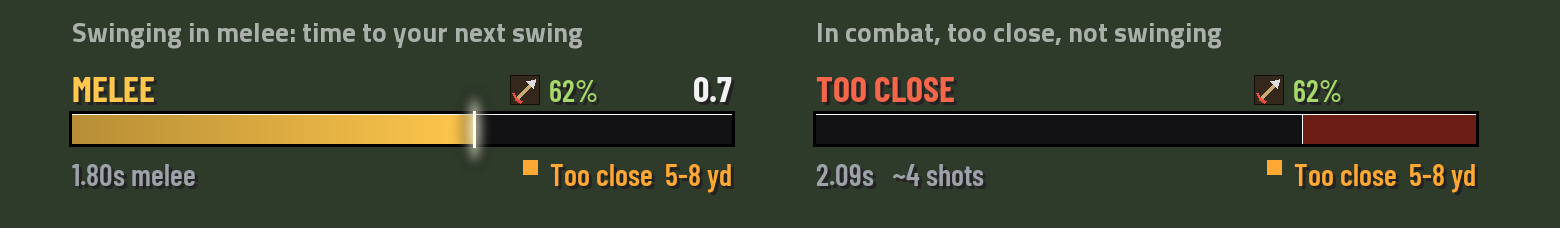
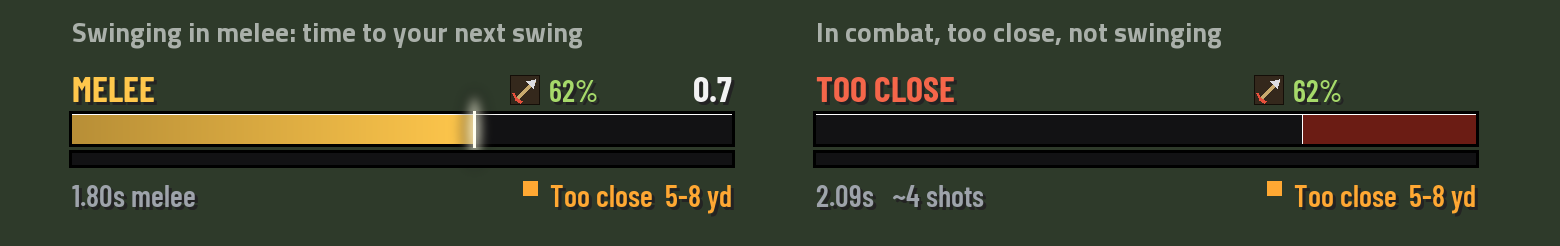
0.10.0: stand-still bar, measured on your own shots
- A slim second bar under the main one fills over exactly the time you must
  stand still: from the moment you must stand (or the moment you stop, if you
  stop late) to the moment the shot goes. Moving empties it (STOP). The
  countdown runs in hundredths while you stand. Option "Stand-still bar".
- The stand-still time is measured, not guessed: from your stop to the shot
  when you stop after the swing ends, and the delay after the swing when you
  stood still all along. Medians of the last nine, saved in the settings and
  kept by Reset all. Until there are three, the half second plus ping is used.
  The main bar's red window and cycle follow the same numbers.
- /hst timing shows what was measured.
- Previews redrawn with the new bar and checkbox.

diff --git a/tools/render_previews.py b/tools/render_previews.py
@@ -33,6 +33,30 @@ FACTION = {"A": ("Alliance", (0.27, 0.55, 1)), "H": ("Horde", (0.92, 0.22, 0.2))
 BG = (24, 28, 24)
 WIDTH, THICK, FONT_SIZE, SMALL, GAP = 220, 10, 12, 10, 4
 WINDOW = 0.55  # 0.5 s stand-still + 50 ms ping
+STAND_H = max(3, int(THICK * 0.4 + 0.5))  # the stand-still bar under the main one (Bar.lua)
+STAND_EXTRA = STAND_H + 3
+
+
+def stand_bar(img, x, y, length, value, vertical=False):
+    """The slim stand-still bar: track, 1 px border, fill in the stand colour."""
+    d = ImageDraw.Draw(img)
+    if vertical:
+        rect(d, x - 1, y - 1, x + STAND_H + 1, y + length + 1, (0, 0, 0, 255))
+        rect(d, x, y, x + STAND_H, y + length, rgb(TRACK))
+        if value > 0:
+            rect(d, x, y + length * (1 - value), x + STAND_H, y + length, rgb(STAND))
+    else:
+        rect(d, x - 1, y - 1, x + length + 1, y + STAND_H + 1, (0, 0, 0, 255))
+        rect(d, x, y, x + length, y + STAND_H, rgb(TRACK))
+        if value > 0:
+            rect(d, x, y, x + length * value, y + STAND_H, rgb(STAND))
+
+
+def stand_value(value, speed, window):
+    """How full the stand-still bar is at this point of the swing (standing still)."""
+    if window <= 0:
+        return 0
+    return max(0.0, min(1.0, (value * speed - (speed - window)) / window))
 
 
 def rgb(c, a=255):
@@ -155,7 +179,7 @@ def range_text(d, right_x, y, state, distance, align="right"):
     text(d, x0, y, s, SMALL, rgb(c), anchor="ls")
 
 
-def standard(img, ox, oy, status, scolour, countdown, value, pct, state, distance, info="2.09s   ~4 shots", window=WINDOW, speed=2.09, text_alpha=1.0):
+def standard(img, ox, oy, status, scolour, countdown, value, pct, state, distance, info="2.09s   ~4 shots", window=WINDOW, speed=2.09, text_alpha=1.0, stand=None):
     d = ImageDraw.Draw(img)
     top = max(FONT_SIZE, SMALL) + GAP
     base = oy + top - GAP
@@ -167,7 +191,8 @@ def standard(img, ox, oy, status, scolour, countdown, value, pct, state, distanc
         text(d, ox + WIDTH, base, countdown, FONT_SIZE, rgb(TEXT), anchor="rs", path=FONT_BOLD, alpha=text_alpha)
     ammo(d, ox + WIDTH - count_slot - ammo_w, base, pct)
     bar(img, ox, oy + top, WIDTH, THICK, value, scolour, speed=speed, window=window)
-    below = oy + top + THICK + GAP + SMALL
+    stand_bar(img, ox, oy + top + THICK + 3, WIDTH, stand_value(value, speed, window) if stand is None else stand)
+    below = oy + top + THICK + STAND_EXTRA + GAP + SMALL
     text(d, ox, below, info, SMALL, rgb(MUTED), anchor="ls", alpha=text_alpha)
     range_text(d, ox + WIDTH, below, state, distance)
 
@@ -186,16 +211,16 @@ def caption(img, x, y, s):
 
 
 def render_phases():
-    img = canvas(520, 76)
+    img = canvas(520, 82)
     x, y = 24, 22
     standard(img, x, y, "MOVE", MOVE, "0.9", 0.29, 62, "in", "25-30 yd")
     caption(img, x, 14, "1  Free to move")
     x = 272
-    standard(img, x, y, "STAND STILL", STAND, "0.3", 0.86, 62, "in", "25-30 yd")
+    standard(img, x, y, "STAND STILL", STAND, "0.29", 0.86, 62, "in", "25-30 yd")
     caption(img, x, 14, "2  Stand still, the shot is coming")
     img.save(OUT / "bar-phases.png")
 
-    img = canvas(520, 76)
+    img = canvas(520, 82)
     x = 24
     standard(img, x, y, "TOO CLOSE", STAND, "", 1.0, 18, "close", "5-8 yd", info="2.09s")
     caption(img, x, 14, "Shot held up: inside the dead zone")
@@ -206,36 +231,37 @@ def render_phases():
 
 
 def render_melee():
-    img = canvas(520, 76)
+    img = canvas(520, 82)
     x, y = 24, 22
     standard(img, x, y, "MELEE", MELEE, "0.7", 0.61, 62, "close", "5-8 yd", info="1.80s melee", window=0, speed=1.8)
     caption(img, x, 14, "Swinging in melee: time to your next swing")
     x = 272
-    standard(img, x, y, "TOO CLOSE", STAND, "", 0.0, 62, "close", "5-8 yd", info="2.09s   ~4 shots")
+    standard(img, x, y, "TOO CLOSE", STAND, "", 0.0, 62, "close", "5-8 yd", info="2.09s   ~4 shots", stand=0)
     caption(img, x, 14, "In combat, too close, not swinging")
     img.save(OUT / "bar-melee.png")
 
 
 def render_layouts():
-    img = canvas(560, 260)
+    img = canvas(560, 272)
     d = ImageDraw.Draw(img)
     caption(img, 24, 20, "Horizontal, text above (default)")
     standard(img, 24, 28, "MOVE", MOVE, "0.9", 0.29, 62, "in", "25-30 yd")
 
-    caption(img, 24, 100, "Horizontal, one row")
+    caption(img, 24, 106, "Horizontal, one row")
     status_w = math.ceil(FONT_SIZE * 6)
     count_w = math.ceil(FONT_SIZE * 2.2)
     row_h = max(THICK, FONT_SIZE + 2)
-    oy = 108
+    oy = 114
     left = 24 + status_w + 6
     by = oy + (row_h - THICK) / 2
     text(d, left - 6, by + THICK / 2, "STAND STILL", FONT_SIZE, rgb(STAND), anchor="rm", path=FONT_BOLD)
     bar(img, left, by, WIDTH, THICK, 0.86, STAND)
-    text(d, left + WIDTH + 6, by + THICK / 2, "0.3", FONT_SIZE, rgb(TEXT), anchor="lm", path=FONT_BOLD)
+    text(d, left + WIDTH + 6, by + THICK / 2, "0.29", FONT_SIZE, rgb(TEXT), anchor="lm", path=FONT_BOLD)
+    stand_bar(img, left, by + THICK + 3, WIDTH, stand_value(0.86, 2.09, WINDOW))
     ax = left + WIDTH + 6 + count_w + 6
     arrow_icon(d, ax, by + THICK / 2 - SMALL / 2, SMALL)
     text(d, ax + SMALL + 3, by + THICK / 2, "62%", SMALL, hexrgb("a6d96a"), anchor="lm")
-    below = oy + row_h + GAP + SMALL
+    below = oy + row_h + STAND_EXTRA + GAP + SMALL
     text(d, left, below, "2.09s   ~4 shots", SMALL, rgb(MUTED), anchor="ls")
     range_text(d, left + WIDTH, below, "in", "25-30 yd")
 
@@ -243,7 +269,8 @@ def render_layouts():
     vx, vy = 420, 28
     length = 210
     bar(img, vx, vy, length, THICK, 0.45, MOVE, vertical=True)
-    tx = vx + THICK + 6
+    stand_bar(img, vx + THICK + 3, vy, length, 0, vertical=True)
+    tx = vx + THICK + 6 + STAND_EXTRA
     text(d, tx, vy + FONT_SIZE, "MOVE", FONT_SIZE, rgb(MOVE), anchor="ls", path=FONT_BOLD)
     text(d, tx, vy + 2 * FONT_SIZE + 3, "0.6", FONT_SIZE, rgb(TEXT), anchor="ls", path=FONT_BOLD)
     ammo(d, tx, vy + 2 * FONT_SIZE + 6 + SMALL, 62)
@@ -402,7 +429,7 @@ def render_settings():
     checkbox(RIGHT, y, "Weapon speed"); checkbox(RIGHT + COL / 2, y, "Shots to kill"); y -= 24
     checkbox(RIGHT, y, "Spark"); checkbox(RIGHT + COL / 2, y, "Flash on shot"); y -= 24
     checkbox(RIGHT, y, "Border"); checkbox(RIGHT + COL / 2, y, "Gradient fill"); y -= 24
-    checkbox(RIGHT, y, "Melee & too close"); y -= 30
+    checkbox(RIGHT, y, "Melee & too close"); checkbox(RIGHT + COL / 2, y, "Stand-still bar"); y -= 30
     choice(RIGHT, y, "Ammo left", "Percent (62%)"); y -= 52
     heading(RIGHT, y, "Range check"); y -= 22
     checkbox(RIGHT, y, "Enabled"); checkbox(RIGHT + COL / 2, y, "Show text"); y -= 24
@@ -434,7 +461,7 @@ def render_switch():
     ease to their new place, and the texts fade out and come back with the new words."""
     blend_time, speed = 0.2, 2.09
     frames = [0, 0.25, 0.5, 0.75, 1]
-    row = 52
+    row = 52 + STAND_EXTRA
     img = canvas(330, 14 + row * len(frames))
     d = ImageDraw.Draw(img)
     from_value = 0.61
@@ -465,6 +492,9 @@ def render_timing():
         (ROOT / "Timer.lua").read_text(encoding="utf-8"))("HunterShotTimer", ns)
     lua.execute("function fillGaps(ns, list) ns.gaps = {} for i, g in ipairs(list) do ns.gaps[i] = { gap = g, speed = 2.09 } end end")
     lua.globals().fillGaps(ns, lua.table(2.11, 2.08, 2.10, 2.12, 4.30, 2.09, 2.10))
+    lua.execute("function fillCalib(ns) ns.DEFAULTS = { windowExtra = 0, addPing = true } "
+                "ns.calib = { stand = { 0.61, 0.63, 0.62, 0.62 }, early = { 0.02, 0.01, 0.03 } } end")
+    lua.globals().fillCalib(ns)
     lines = list(ns.TimingReport().values())
 
     size, lh = 11, 15

diff --git a/tests/test_timer.py b/tests/test_timer.py
@@ -576,11 +576,20 @@ def main():
     db.width, db.barHeight, db.fontSize, db.smallFontSize = 300, 20, 16, 11
     ns.ApplyLayout()
     check("width and bar height applied", frame.width == 300 and bar.width == 300 and bar.height == 20)
-    check("frame height = text + bar + info row", frame.height == (16 + 4) + 20 + (11 + 4))
+    check("frame height = text + bar + stand-still bar + info row", frame.height == (16 + 4) + 20 + (8 + 3) + (11 + 4))
+    sb = ns.standBar
+    check("stand-still bar: under the bar, full length, slimmer",
+          sb.shown and sb.width == 300 and sb.height == 8 and sb.point[1] == "TOPLEFT" and sb.point[3] == "BOTTOMLEFT"
+          and sb.point[5] == -3)
+    check("info row below the stand-still bar, not on it", ns.ui.info.point[5] == -4 - 11)
     db.showStatus, db.showCountdown, db.showSpeed, db.rangeEnabled = False, False, False, False
     db.showShots, db.ammoDisplay = False, "off"
     ns.ApplyLayout()
-    check("hidden rows take no space", frame.height == 20)
+    check("hidden rows take no space", frame.height == 20 + 11)
+    db.showStandBar = False
+    ns.ApplyLayout()
+    check("stand-still bar off: no room kept for it", frame.height == 20 and not ns.standBar.shown)
+    db.showStandBar = True
     db.showStatus, db.showCountdown, db.showSpeed, db.rangeEnabled = True, True, True, True
     db.showShots, db.ammoDisplay = True, "percent"
     db.opacity = 50
@@ -701,7 +710,7 @@ def main():
     g.tick(37)
     check("demo shows while options open", timer.shown and rng.shown)
     boxes = list(g.checkboxes().values())
-    check("options has the checkboxes", len(boxes) == 19)
+    check("options has the checkboxes", len(boxes) == 20)
     first = boxes[6]  # "Status text" (left column first: ping, then the 5 vendor options)
     first.checked = False
     first.scripts.OnClick(first)
@@ -970,7 +979,7 @@ def main():
     g.tick(7001.7)  # stopped 0.3 s before the swing ends: the shot waits for a full window
     w, still = ns.Window(), ns.move.stillSince
     def shown_left(t):
-        return ns.ui.countdown.text == "%.1f" % (int((t - g.GetTime()) * 10 + 0.5) / 10)
+        return ns.ui.countdown.text == "%.2f" % (int((t - g.GetTime()) * 100 + 0.5) / 100)  # exact while standing
     check("stopped late: the bar sees you stand still", 7001.6 < still <= 7001.7)
     check("stopped late: countdown to the real shot, a full window after you stopped",
           "STAND STILL" in g.shownText() and shown_left(still + w) and still + w > 7002.0)
@@ -992,16 +1001,75 @@ def main():
     g.SlashCmdList.HUNTERSHOTTIMER("timing")
     out = [g.printed[i] for i in range(n + 1, len(g.printed) + 1)]
     check("timing: a gap where you moved is left out", any("you moved, left out" in l for l in out))
+    check("timing: says the stand-still time is not measured yet", any("not measured yet" in l for l in out))
     # Options open: the looping demo ignores your movement.
     g.playerSpeed = 7
     ns.SetUnlocked(True)
     g.tick(7003.7 + 3.0 - (7003.7 % 3.0) + 2.8)
     check("demo ignores movement", "STOP" not in g.shownText())
+    check("demo: the stand-still bar still loops", 0 <= ns.standBar.value <= 1)
     ns.SetUnlocked(False)
     g.playerSpeed = None
     g.fire("STOP_AUTOREPEAT_SPELL")
     g.fire("PLAYER_ENTERING_WORLD")
     g.tick(7010)
+
+    # --- The stand-still bar learns your real stand-still time ------------------------
+    g.fire("PLAYER_ENTERING_WORLD")
+    lua.eval("function(c) c.stand, c.early = {}, {} end")(ns.calib)
+    g.fire("START_AUTOREPEAT_SPELL")
+    g.playerSpeed = 0
+    t0 = 8000.0
+    g.setClock(t0)
+    g.tick(t0 + 0.05)
+    g.fire("PLAYER_SWING", 2.0, 2)
+    last = g.GetTime()
+    # Three swings: run past the swing end, stop, and the shot goes 0.62 s later.
+    for i in range(3):
+        g.playerSpeed = 7
+        g.tick(last + 2.3)
+        g.playerSpeed = 0
+        g.tick(last + 2.35)
+        stop = ns.move.stillSince
+        g.setClock(stop + 0.62)
+        g.fire("PLAYER_SWING", 2.0, 2)
+        last = g.GetTime()
+    check("learned: stand-still time measured from your stops", abs(ns.StandNeed() - 0.62) < 1e-6)
+    # Three swings standing still all along: the shot goes 0.03 s after the swing ends.
+    for i in range(3):
+        g.tick(last + 2.0)
+        g.setClock(last + 2.03)
+        g.fire("PLAYER_SWING", 2.0, 2)
+        last = g.GetTime()
+    check("learned: delay after the swing when standing still", abs(ns.EarlyDelay() - 0.03) < 1e-6)
+    # The bar now follows the measured numbers.
+    g.tick(last + 2.03 - 0.62 + 0.31)  # halfway through the stand-still time
+    check("stand-still bar: half full halfway", abs(ns.standBar.value - 0.5) < 0.03)
+    check("countdown exact to the hundredth while standing", ns.ui.countdown.text == "0.31")
+    g.playerSpeed = 7
+    g.tick(g.GetTime() + 0.05)
+    check("moving: stand-still bar empties, STOP", ns.standBar.value == 0 and "STOP" in g.shownText())
+    g.playerSpeed = 0
+    g.tick(g.GetTime() + 0.05)
+    stop = ns.move.stillSince
+    g.tick(stop + 0.62 / 2)
+    check("stopped late: the bar starts at your stop and runs the full time", abs(ns.standBar.value - 0.5) < 0.03)
+    n = len(g.printed)
+    g.SlashCmdList.HUNTERSHOTTIMER("timing")
+    out = [g.printed[i] for i in range(n + 1, len(g.printed) + 1)]
+    check("timing: shows the measured stand-still time", any("Measured stand-still time: 0.62 s" in l for l in out))
+    # Kept across reloads, and not touched by Reset all.
+    check("measurements are saved", ns.db.calib.stand[1] == ns.calib.stand[1])
+    ns.ResetDB()
+    check("reset keeps the measurements", abs(ns.StandNeed() - 0.62) < 1e-6)
+    junk = ns.InitDB(lua.eval('{ calib = { stand = { 0.5, "x", 0/0, 9 }, early = "bad" } }'))
+    check("saved measurements cleaned", len(junk.calib.stand) == 1 and len(junk.calib.early) == 0)
+    ns.InitDB(ns.db)
+    lua.eval("function(c) c.stand, c.early = {}, {} end")(ns.calib)
+    g.playerSpeed = None
+    g.fire("STOP_AUTOREPEAT_SPELL")
+    g.fire("PLAYER_ENTERING_WORLD")
+    g.tick(g.GetTime() + 5)
 
     # Distance text never contradicts itself.
     def bracket(ans, state):

diff --git a/README.md b/README.md
@@ -76,6 +76,7 @@ The bar is one swing long:
 | **Red window at the end** | Stand still here. It is the engine's half second, plus your ping (your "I stopped" has to reach the server). |
 | **Red, "STAND STILL"** | The shot is coming: do not move. The countdown shows how long until it fires. |
 | **Red, "STOP"** | You are moving where you must stand still. The shot waits until you stop. |
+| **Slim bar underneath** | The stand-still bar: it fills over exactly the time you must stand still and is full as the arrow or bullet leaves. |
 | **Spark** | Where you are in the swing. It pulses while a shot is overdue. |
 | **Flash** | A short flash across the bar when the shot fires. |
 
@@ -84,6 +85,14 @@ counts too), so you never have to guess. Moving in the red window says **STOP**.
 stand still, the countdown is the real time to the shot: the end of the swing, or a full
 half second (plus ping) after you stopped if you stopped late. Without that, the shot would
 seem to come "late" for no reason.
+
+**The stand-still bar shows exactly how long to stand still.** It starts the moment you
+have to stand still, or the moment you stop if you stop late, and it is full as the shot
+goes. While you stand, the countdown runs in hundredths (`0.29`). If you move, it empties
+and says STOP. The time is not a guess: the addon measures it on your own shots (from the
+moment you stopped to the moment the arrow left), so your ping and the server's timing are
+in it. Until it has three such shots it uses the half second plus your ping. `/hst timing`
+shows what it measured. Switch the bar off with **Stand-still bar** in the settings.
 
 When a swing is over but no shot has gone off, the bar stays full and tells you why:
 
